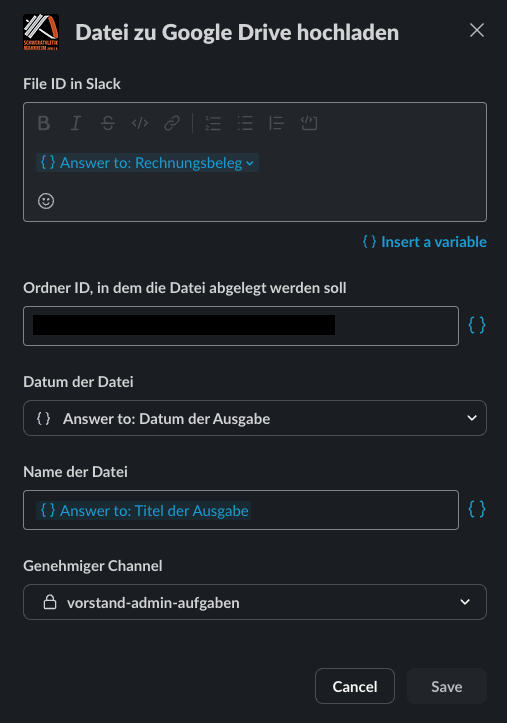
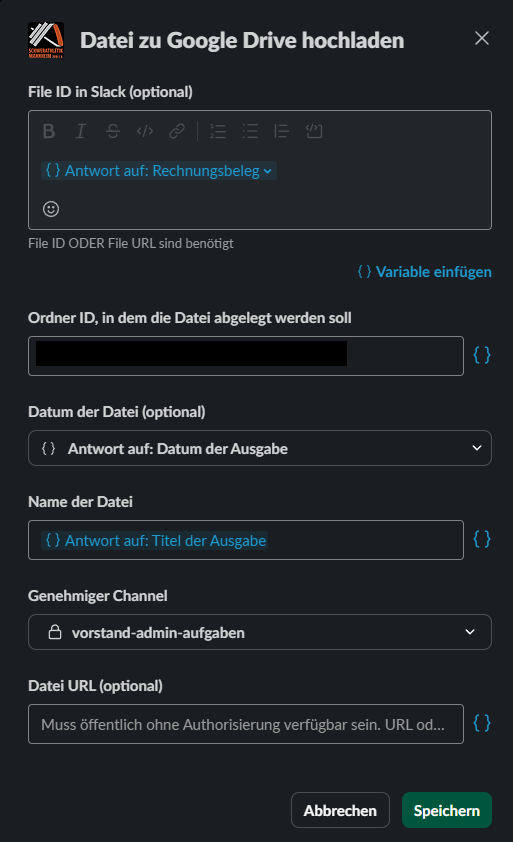
public files upload and optional date

diff --git a/src/workflows/googledrive/app.js b/src/workflows/googledrive/app.js
@@ -21,21 +21,20 @@ function setupApp(app) {
       try {
         // get step parameters
         file = {
-          fileName: /** @type {string} */ (
-            `${/** @type {string} */ (inputs.fileDate).replace(/-*/g, '')} ${inputs.fileName}`
-          ),
+          fileName: `${inputs.fileDate ? /** @type {string} */ (inputs.fileDate).replace(/-*/g, '') + ' ' : ''}${inputs.fileName}`,
           driveFolderID: /** @type {string} */ (inputs.driveFolderID),
-          fileID: inputs.fileID[0].elements[0].elements[0].text
+          fileID: inputs.fileID?.[0].elements[0].elements[0].text,
+          publicFileURL: /** @type {string} */ (inputs?.fileURL)
         };
 
         // set workflow step to complete
         await complete();
 
         // post 200 already to not wait for drive upload
-        awsRtAPI.sendResponse();
+        await awsRtAPI.sendResponse();
 
-        // download file from slack
-        await controller.getFileInfoFromSlack(client, file);
+        // get file info
+        await controller.getFileInfo(client, file);
 
         // upload to drive
         await controller.uploadFileToDriveFolder(file);
@@ -70,7 +69,7 @@ function setupApp(app) {
       await ack();
 
       // post 200 already
-      awsRtAPI.sendResponse();
+      await awsRtAPI.sendResponse();
 
       // get file information from action
       /** @type {types.fileInformation} */
@@ -80,8 +79,8 @@ function setupApp(app) {
 
       // upload file to drive folder
       try {
-        // download file from slack
-        await controller.getFileInfoFromSlack(client, file);
+        // get file info
+        await controller.getFileInfo(client, file);
 
         // upload to drive
         await controller.uploadFileToDriveFolder(file);

diff --git a/src/workflows/googledrive/controller.js b/src/workflows/googledrive/controller.js
@@ -30,12 +30,20 @@ async function auth() {
 
 //* ******************* Public functions ********************//
 /**
- * get download URL from Slack file and download it
+ * get download URL from Slack or public
  * @param {import("@slack/bolt").webApi.WebClient} client
  * @param {types.fileInformation} file
  * @returns {Promise<any>}
  */
-export async function getFileInfoFromSlack(client, file) {
+export async function getFileInfo(client, file) {
+  // for public files, no need to fetch from slack
+  if (file.publicFileURL) {
+    file.mimetype =
+      types.mimeTypes[file.fileName.split('.').pop()] ||
+      'application/octet-stream';
+    return;
+  }
+
   // get file URL from slack
   const fileInfo = await client.files.info({
     file: file.fileID
@@ -62,13 +70,13 @@ export async function uploadFileToDriveFolder(file) {
   // create streamable instance for upload
   const readStream = new stream.PassThrough();
 
-  // download slack file and pipe into stream
+  // download file from slack or public and pipe into stream
   (
-    await fetch(file.fileURL, {
+    await fetch(file.publicFileURL || file.fileURL, {
       method: 'get',
-      headers: {
-        Authorization: `Bearer ${process.env.SLACK_BOT_TOKEN}`
-      }
+      headers: file.publicFileURL
+        ? {}
+        : { Authorization: `Bearer ${process.env.SLACK_BOT_TOKEN}` }
     })
   ).body.pipe(readStream);
 

diff --git a/src/workflows/googledrive/types.js b/src/workflows/googledrive/types.js
@@ -1,10 +1,32 @@
 /**
+ * @readonly
+ * @enum {string}
+ */
+
+export const mimeTypes = {
+  pdf: 'application/pdf',
+  jpg: 'image/jpeg',
+  jpeg: 'image/jpeg',
+  png: 'image/png',
+  gif: 'image/gif',
+  txt: 'text/plain',
+  html: 'text/html',
+  csv: 'text/csv',
+  json: 'application/json',
+  doc: 'application/msword',
+  docx: 'application/vnd.openxmlformats-officedocument.wordprocessingml.document',
+  xls: 'application/vnd.ms-excel',
+  xlsx: 'application/vnd.openxmlformats-officedocument.spreadsheetml.sheet'
+};
+
+/**
  * @typedef {object} fileInformation
  * @property {string} fileName
  * @property {string} driveFolderID
  * @property {string} fileID
  * @property {string} [fileURL]
  * @property {string} [mimetype]
+ * @property {string} [publicFileURL]
  */
 
 export {};
